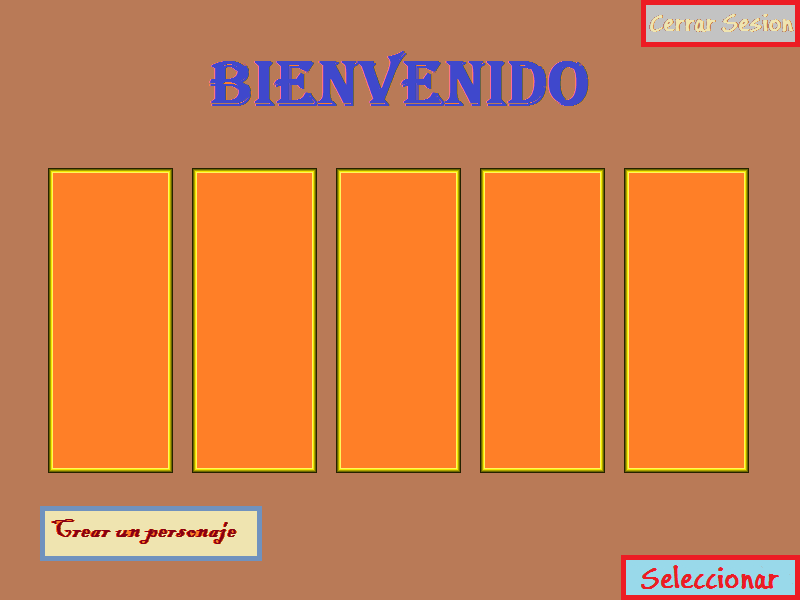
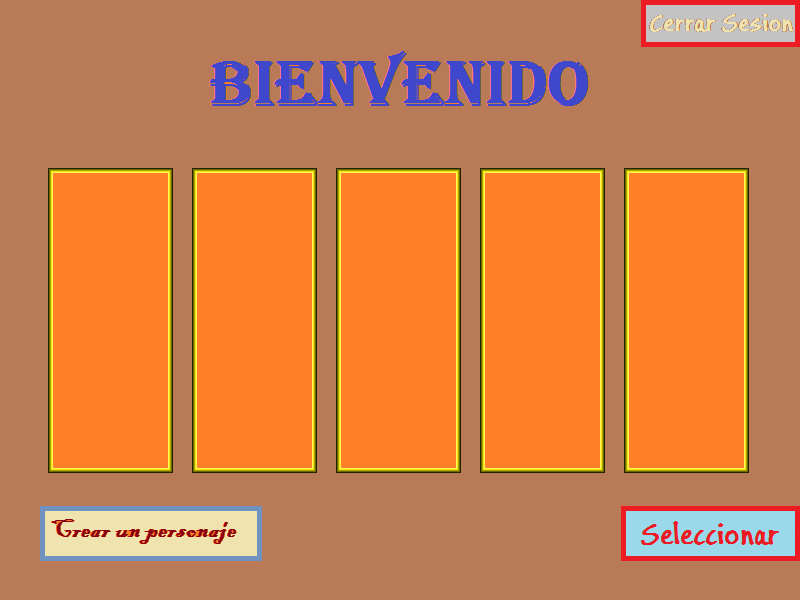
Se puede escribir el nombre del pj al crearlo
-Se modifica def id_clases
-Se agrega def escribir_nombre, la cual permite escribir el nombre del
personaje en pantalla cuando se crea uno

Changed region(s): [[0.75, 0.84, 1.0, 1.0]]

diff --git a/functions.py b/functions.py
@@ -14,14 +14,14 @@ FPS 		    = get_settings_FPS()
 def blit_selec_pers(pantalla,user): 
 	seleccion_personajes = pygame.image.load(os.path.join("media","menu","seleccion_personajes.png"))
 	seleccion_personajes = pygame.transform.scale(seleccion_personajes,(int(800*mult_resolution),int(600*mult_resolution)))
-	lista    		= []
-	screenX 		= 0
-	screenY 		= 0
-	posx_character 	= 53
-	posy_character 	= 173
-	posx 			= 45
-	posy 			= 140
-	contador_fuente = 0
+	lista    			 = []
+	screenX 			 = 0
+	screenY 			 = 0
+	posx_character 		 = 53
+	posy_character 		 = 173
+	posx 				 = 45
+	posy 				 = 140
+	contador_fuente 	 = 0
 	if aspect_ratio=='2':
 		screenX 		= 133
 		posx_character  = 186
@@ -134,7 +134,7 @@ def apretar_mouse_character_selector(mouspos,pantalla,class_selected,character_s
 		else:
 			print language['lang_you_choose']+' '+datos_personaje_seleccionado(character_selected)[2]
 
-	if (626+mouseposX<mouspos[0]<794+mouseposX)and (560+mouseposY<mouspos[1]<594+mouseposY):
+	if (626+mouseposX<mouspos[0]<794+mouseposX)and (511+mouseposY<mouspos[1]<555+mouseposY):
 		if character_selected == '0':
 			print language['lang_select_a_character']
 		else:								#pass
@@ -151,16 +151,19 @@ def apretar_mouse_character_selector(mouspos,pantalla,class_selected,character_s
 				enemigos_bliteados = blit_monster(pantalla,datos_mapa,posicionX,posicionY,datos_imagenes)
 	return character_selector_menu,character_creator_menu,character_selected,datos_personaje,juego_loop,datos_mapa,posicionX,posicionY,enemigos_bliteados,datos_imagenes
 
-def id_clases():
-	lista_clases = []
+def get_datos_clases(): # id_clases():
+	datos_clases    = dict()
+	lista_id_clases = list()
 	arch_clases = open('clases.dat')
 	for linea in arch_clases:
-		numero_clase = linea.strip().split(';')[0]
-		if numero_clase == '#id_clase':
+		datos = linea.strip().split(';')
+		id_clase = datos[0]
+		if id_clase == '#id_clase':
 			continue
-		lista_clases.append(numero_clase)
+		lista_id_clases.append(id_clase)
+		datos_clases[id_clase] = datos
 	arch_clases.close()
-	return lista_clases
+	return lista_id_clases,datos_clases
 
 def blit_creac_pers(pantalla):
 	screenX  = 0
@@ -178,9 +181,9 @@ def blit_creac_pers(pantalla):
 	creacion_personaje 	= pygame.image.load(os.path.join("media","menu","creacion_personaje.png"))
 	creacion_personaje  = pygame.transform.scale(creacion_personaje,(int(800*mult_resolution),int(600*mult_resolution)))
 	pantalla.blit(creacion_personaje,(screenX,screenY))
-	lista_clases = id_clases()
+	lista_id_clases,datos_clases = get_datos_clases()
 
-	for bliteamiento in lista_clases:
+	for bliteamiento in lista_id_clases:
 		contador += 1
 		class_icon	= pygame.image.load(os.path.join("media","menu","class_"+bliteamiento+"_icon.png")).convert()
 		class_icon  = pygame.transform.scale(class_icon,(int(54*mult_resolution),int(54*mult_resolution)))
@@ -196,8 +199,9 @@ def blit_creac_pers(pantalla):
 	return
 
 def blit_perso_selec_creacion(class_selected,pantalla):
-	screenX = 353
-	screenY = 217
+	datos_clase = get_datos_clases()[1][class_selected]
+	screenX  	= 353
+	screenY 	= 217
 	if aspect_ratio == '2':
 		screenX = 486
 	blit_creac_pers(pantalla)
@@ -205,15 +209,18 @@ def blit_perso_selec_creacion(class_selected,pantalla):
 	character_class  = pygame.transform.scale(character_class,(int(115*mult_resolution),int(295*mult_resolution)))
 	character_class.set_colorkey((255,255,255))
 	pantalla.blit(character_class,(screenX,screenY))
+	nombre_clase_render = fuente.render(datos_clase[1], True, (0,0,255))
+	pantalla.blit(nombre_clase_render,(310,550))
 	return
 
-def apretar_mouse_character_creator(mouspos,pantalla,user,class_selected,lista_id_clases,personajes_cuenta):
-	character_selector_menu = True
-	character_creator_menu  = True
-	mouseposX				= 0
-	mouseposY				= 0
-	Xnombre					= 0
-	Ynombre 				= 0
+def apretar_mouse_character_creator(mouspos,pantalla,user,class_selected,personajes_cuenta):
+	character_selector_menu  	 = True
+	character_creator_menu  	 = True
+	mouseposX				     = 0
+	mouseposY					 = 0
+	Xnombre						 = 0
+	Ynombre 					 = 0
+	lista_id_clases,datos_clase  = get_datos_clases()
 
 	if aspect_ratio=='2':
 		mouseposX = 133
@@ -297,7 +304,7 @@ def apretar_mouse_character_creator(mouspos,pantalla,user,class_selected,lista_i
 			mensaje_nombre.set_colorkey((255,255,255))
 			pantalla.blit(mensaje_nombre,(Xnombre,Ynombre))
 			pygame.display.flip()
-			crear_personaje(user,class_selected)
+			crear_personaje(pantalla,user,class_selected)
 			character_creator_menu = False
 			personajes_cuenta = blit_selec_pers(pantalla,user)
 		else:
@@ -305,32 +312,194 @@ def apretar_mouse_character_creator(mouspos,pantalla,user,class_selected,lista_i
 
 	return personajes_cuenta,class_selected,character_creator_menu,character_selector_menu
 
-def crear_personaje(user,class_selected):
+def escribir_nombre(pantalla,lista_nombres,class_selected):
+	nombre_personaje_creado = ''
+	escribir    = True
+	escribiendo = True
+	verificador = True
+	Xnombre     = 0
+	Ynombre 	= 0
+	if aspect_ratio == '2':
+		Xnombre = 133
+	mensaje_nombre = pygame.image.load(os.path.join("media","menu","mensaje_nombre.png")).convert()
+	mensaje_nombre.set_colorkey((255,255,255))
+	while escribir:
+		escribiendo = True
+		verificador = True
+		blit_creac_pers(pantalla)
+		blit_perso_selec_creacion(class_selected,pantalla)
+		pantalla.blit(mensaje_nombre,(Xnombre,Ynombre))
+		while escribiendo:
+			for event in pygame.event.get():
+				if event.type == pygame.KEYDOWN: 
+					if event.key == pygame.K_RETURN:
+						escribiendo = False
+					elif event.key == pygame.K_BACKSPACE:
+						if nombre_personaje_creado != '':
+							nombre_personaje_creado = nombre_personaje_creado[:-1]
+							blit_creac_pers(pantalla)
+							blit_perso_selec_creacion(class_selected,pantalla)
+							pantalla.blit(mensaje_nombre,(Xnombre,Ynombre))
+					mods = pygame.key.get_mods()
+					if (mods & KMOD_CAPS) or (mods & KMOD_LSHIFT) or (mods & KMOD_RSHIFT): 
+						if event.key == pygame.K_q:
+							nombre_personaje_creado += 'Q'
+						elif event.key == pygame.K_w:
+							nombre_personaje_creado += 'W'
+						elif event.key == pygame.K_e:
+							nombre_personaje_creado += 'E'
+						elif event.key == pygame.K_r:
+							nombre_personaje_creado += 'R'
+						elif event.key == pygame.K_t:
+							nombre_personaje_creado += 'T'
+						elif event.key == pygame.K_y:
+							nombre_personaje_creado += 'Y'
+						elif event.key == pygame.K_u:
+							nombre_personaje_creado += 'U'
+						elif event.key == pygame.K_i:
+							nombre_personaje_creado += 'I'
+						elif event.key == pygame.K_o:
+							nombre_personaje_creado += 'O'
+						elif event.key == pygame.K_p:
+							nombre_personaje_creado += 'P'
+						elif event.key == pygame.K_a:
+							nombre_personaje_creado += 'A'
+						elif event.key == pygame.K_s:
+							nombre_personaje_creado += 'S'
+						elif event.key == pygame.K_d:
+							nombre_personaje_creado += 'D'
+						elif event.key == pygame.K_f:
+							nombre_personaje_creado += 'F'
+						elif event.key == pygame.K_g:
+							nombre_personaje_creado += 'G'
+						elif event.key == pygame.K_h:
+							nombre_personaje_creado += 'H'
+						elif event.key == pygame.K_j:
+							nombre_personaje_creado += 'J'
+						elif event.key == pygame.K_k:
+							nombre_personaje_creado += 'K'
+						elif event.key == pygame.K_l:
+							nombre_personaje_creado += 'L'
+						elif event.key == pygame.K_z:
+							nombre_personaje_creado += 'Z'
+						elif event.key == pygame.K_x:
+							nombre_personaje_creado += 'X'
+						elif event.key == pygame.K_c:
+							nombre_personaje_creado += 'C'
+						elif event.key == pygame.K_v:
+							nombre_personaje_creado += 'V'
+						elif event.key == pygame.K_b:
+							nombre_personaje_creado += 'B'
+						elif event.key == pygame.K_n:
+							nombre_personaje_creado += 'N'
+						elif event.key == pygame.K_m:
+							nombre_personaje_creado += 'M'
+					else:
+						if event.key == pygame.K_q:
+							nombre_personaje_creado += 'q'
+						elif event.key == pygame.K_w:
+							nombre_personaje_creado += 'w'
+						elif event.key == pygame.K_e:
+							nombre_personaje_creado += 'e'
+						elif event.key == pygame.K_r:
+							nombre_personaje_creado += 'r'
+						elif event.key == pygame.K_t:
+							nombre_personaje_creado += 't'
+						elif event.key == pygame.K_y:
+							nombre_personaje_creado += 'y'
+						elif event.key == pygame.K_u:
+							nombre_personaje_creado += 'u'
+						elif event.key == pygame.K_i:
+							nombre_personaje_creado += 'i'
+						elif event.key == pygame.K_o:
+							nombre_personaje_creado += 'o'
+						elif event.key == pygame.K_p:
+							nombre_personaje_creado += 'p'
+						elif event.key == pygame.K_a:
+							nombre_personaje_creado += 'a'
+						elif event.key == pygame.K_s:
+							nombre_personaje_creado += 's'
+						elif event.key == pygame.K_d:
+							nombre_personaje_creado += 'd'
+						elif event.key == pygame.K_f:
+							nombre_personaje_creado += 'f'
+						elif event.key == pygame.K_g:
+							nombre_personaje_creado += 'g'
+						elif event.key == pygame.K_h:
+							nombre_personaje_creado += 'h'
+						elif event.key == pygame.K_j:
+							nombre_personaje_creado += 'j'
+						elif event.key == pygame.K_k:
+							nombre_personaje_creado += 'k'
+						elif event.key == pygame.K_l:
+							nombre_personaje_creado += 'l'
+						elif event.key == pygame.K_z:
+							nombre_personaje_creado += 'z'
+						elif event.key == pygame.K_x:
+							nombre_personaje_creado += 'x'
+						elif event.key == pygame.K_c:
+							nombre_personaje_creado += 'c'
+						elif event.key == pygame.K_v:
+							nombre_personaje_creado += 'v'
+						elif event.key == pygame.K_b:
+							nombre_personaje_creado += 'b'
+						elif event.key == pygame.K_n:
+							nombre_personaje_creado += 'n'
+						elif event.key == pygame.K_m:
+							nombre_personaje_creado += 'm'
+					if event.key == pygame.K_SPACE:
+						nombre_personaje_creado += ' '
+					elif event.key == pygame.K_PERIOD:
+						nombre_personaje_creado += '.'
+						
+			nombre_personaje_render = fuente.render(nombre_personaje_creado, True, (0,0,255))
+			pantalla.blit(nombre_personaje_render,(320,490))
+			pygame.display.flip()
+		while verificador:
+			if len(nombre_personaje_creado)<3:
+				print language['lang_name_too_short']
+				escribiendo = True
+				nombre_personaje_creado = ''
+			if nombre_personaje_creado in lista_nombres:
+				print language['lang_name_already_exist']
+				escribiendo = True
+				nombre_personaje_creado = ''
+			if len(nombre_personaje_creado)>10:
+				print language['lang_name_too_long']
+				escribiendo = True
+				nombre_personaje_creado = ''
+			if escribiendo == False:
+				escribir    = False
+			verificador = False
+	return nombre_personaje_creado
+
+def crear_personaje(pantalla,user,class_selected):
 	file_personajes = open('personajes.dat')
 	lista_nombres   = []
 	for linea_personajes in file_personajes:
 		if linea_personajes.split(';')[0] == '#id_personaje':
 			continue
 		id_personaje = linea_personajes.strip().split(';')[0]
-		lista_nombres.append(linea_personajes.strip().split(';')[2])
+		lista_nombres.append(linea_personajes.strip().split(';')[2].lower())
 	file_personajes.close()
 
 	verificar_nombre     = True
 	contador_verificador = 0
-	nombre_personaje_creado = raw_input(language['lang_char_name']+': ')
-	while verificar_nombre:
-		contador_verificador += 1
-		while nombre_personaje_creado in lista_nombres:
-			nombre_personaje_creado = raw_input(language['lang_name_already_exist']+': ')
-			contador_verificador = 0
-		while  len(nombre_personaje_creado)>10:
-			nombre_personaje_creado = raw_input(language['lang_name_too_long']+': ')
-			contador_verificador = 0
-		while  len(nombre_personaje_creado)<3:
-			nombre_personaje_creado = raw_input(language['lang_name_too_short']+': ')
-			contador_verificador = 0
-		if contador_verificador == 5:
-			verificar_nombre = False
+	nombre_personaje_creado = escribir_nombre(pantalla,lista_nombres,class_selected)
+	#nombre_personaje_creado = raw_input(language['lang_char_name']+': ')
+	# while verificar_nombre:
+	# 	contador_verificador += 1
+	# 	while nombre_personaje_creado in lista_nombres:
+	# 		nombre_personaje_creado = raw_input(language['lang_name_already_exist']+': ')
+	# 		contador_verificador = 0
+	# 	while  len(nombre_personaje_creado)>10:
+	# 		nombre_personaje_creado = raw_input(language['lang_name_too_long']+': ')
+	# 		contador_verificador = 0
+	# 	while  len(nombre_personaje_creado)<3:
+	# 		nombre_personaje_creado = raw_input(language['lang_name_too_short']+': ')
+	# 		contador_verificador = 0
+	# 	if contador_verificador == 5:
+	# 		verificar_nombre = False
 
 
 	file_account = open('accounts.dat')
@@ -359,7 +528,7 @@ def crear_personaje(user,class_selected):
 			lista.append(iteracion)
 
 
-	lista[4] = lista[4]+'\n'
+	lista[-1] = lista[-1]+'\n'
 	datos_cuenta[3] = ','.join(lista)
 	datos_cuenta_modificados = ';'.join(datos_cuenta)
 

diff --git a/main.py b/main.py
@@ -137,7 +137,6 @@ while hacer:
 		datos_imagenes			= None
 
 		personajes_cuenta = blit_selec_pers(pantalla,user)
-		lista_id_clases = id_clases()
 		
 		pygame.mixer.init(44100)
 		main_dir 			= os.path.split(os.path.abspath(__file__))[0]
@@ -157,6 +156,7 @@ while hacer:
 
 			mouspos = pygame.mouse.get_pos()
 			for event in pygame.event.get():
+				
 				if event.type == pygame.QUIT:
 					character_selector_menu = False
 					print language['lang_log_out']
@@ -166,6 +166,7 @@ while hacer:
 						character_selector_menu = False
 						print language['lang_log_out']
 						break
+					#if event.key == pygame.K_p:
 		            #if event.key == pygame.K_d: letra d teclado
 		            #if event.key == pygame.K_a: letra a teclado
 		            #if event.key == pygame.K_w: letra w teclado
@@ -203,7 +204,7 @@ while hacer:
 
 					elif event.type == pygame.MOUSEBUTTONDOWN:
 						if pygame.mouse.get_pressed()[0]==True:
-							personajes_cuenta,class_selected,character_creator_menu,character_selector_menu = apretar_mouse_character_creator(mouspos,pantalla,user,class_selected,lista_id_clases,personajes_cuenta)
+							personajes_cuenta,class_selected,character_creator_menu,character_selector_menu = apretar_mouse_character_creator(mouspos,pantalla,user,class_selected,personajes_cuenta)
 							
 				pygame.display.flip()
 
